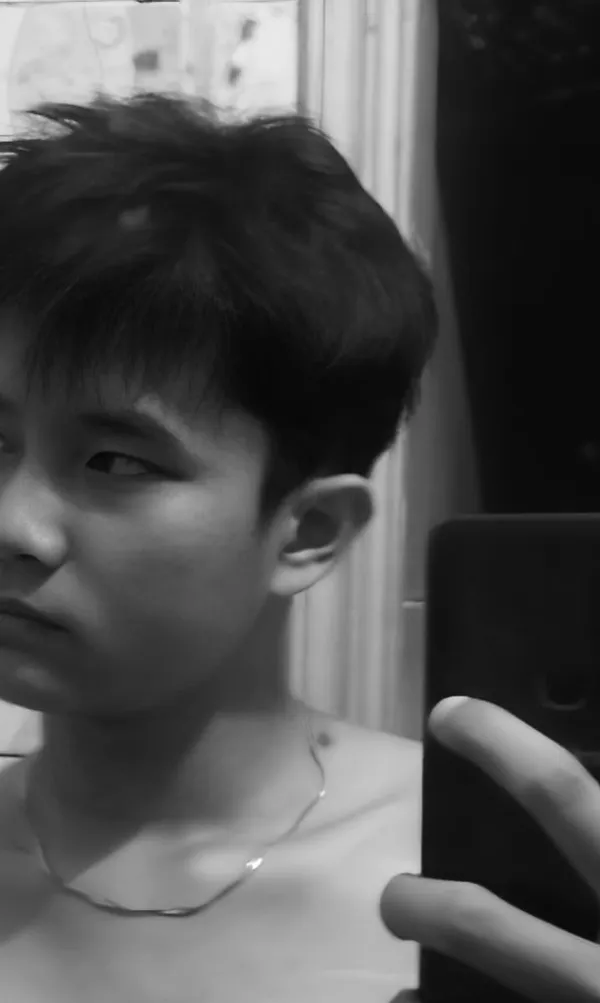
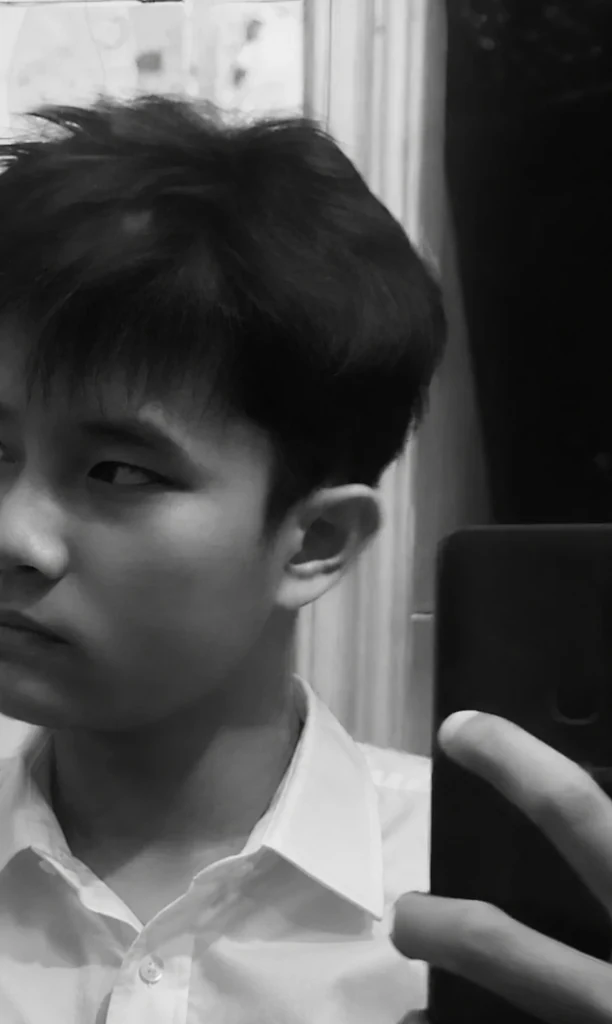
feat: update hero profile photo and set default theme to light mode

diff --git a/src/assets/components/theme/ThemeContext.jsx b/src/assets/components/theme/ThemeContext.jsx
@@ -11,10 +11,15 @@ export const useTheme = () => {
 export const ThemeProvider = ({ children }) => {
   const [theme, setTheme] = useState(() => {
     if (typeof window !== 'undefined') {
-      const saved = localStorage.getItem('theme');
+      try {
+        // Hapus legacy stored theme agar tidak memaksa darkmode lama
+        localStorage.removeItem('theme');
+      } catch (e) {}
+
+      const saved = sessionStorage.getItem('theme');
       if (saved === 'dark' || saved === 'light') return saved;
-      if (window.matchMedia('(prefers-color-scheme: dark)').matches) return 'dark';
     }
+    // Ketika web baru dibuka, langsung default menggunakan lightmode
     return 'light';
   });
 
@@ -22,7 +27,9 @@ export const ThemeProvider = ({ children }) => {
     const root = document.documentElement;
     root.classList.remove('dark', 'game');
     if (theme === 'dark') root.classList.add('dark');
-    localStorage.setItem('theme', theme);
+    try {
+      sessionStorage.setItem('theme', theme);
+    } catch (e) {}
   }, [theme]);
 
   const toggleTheme = () => {
